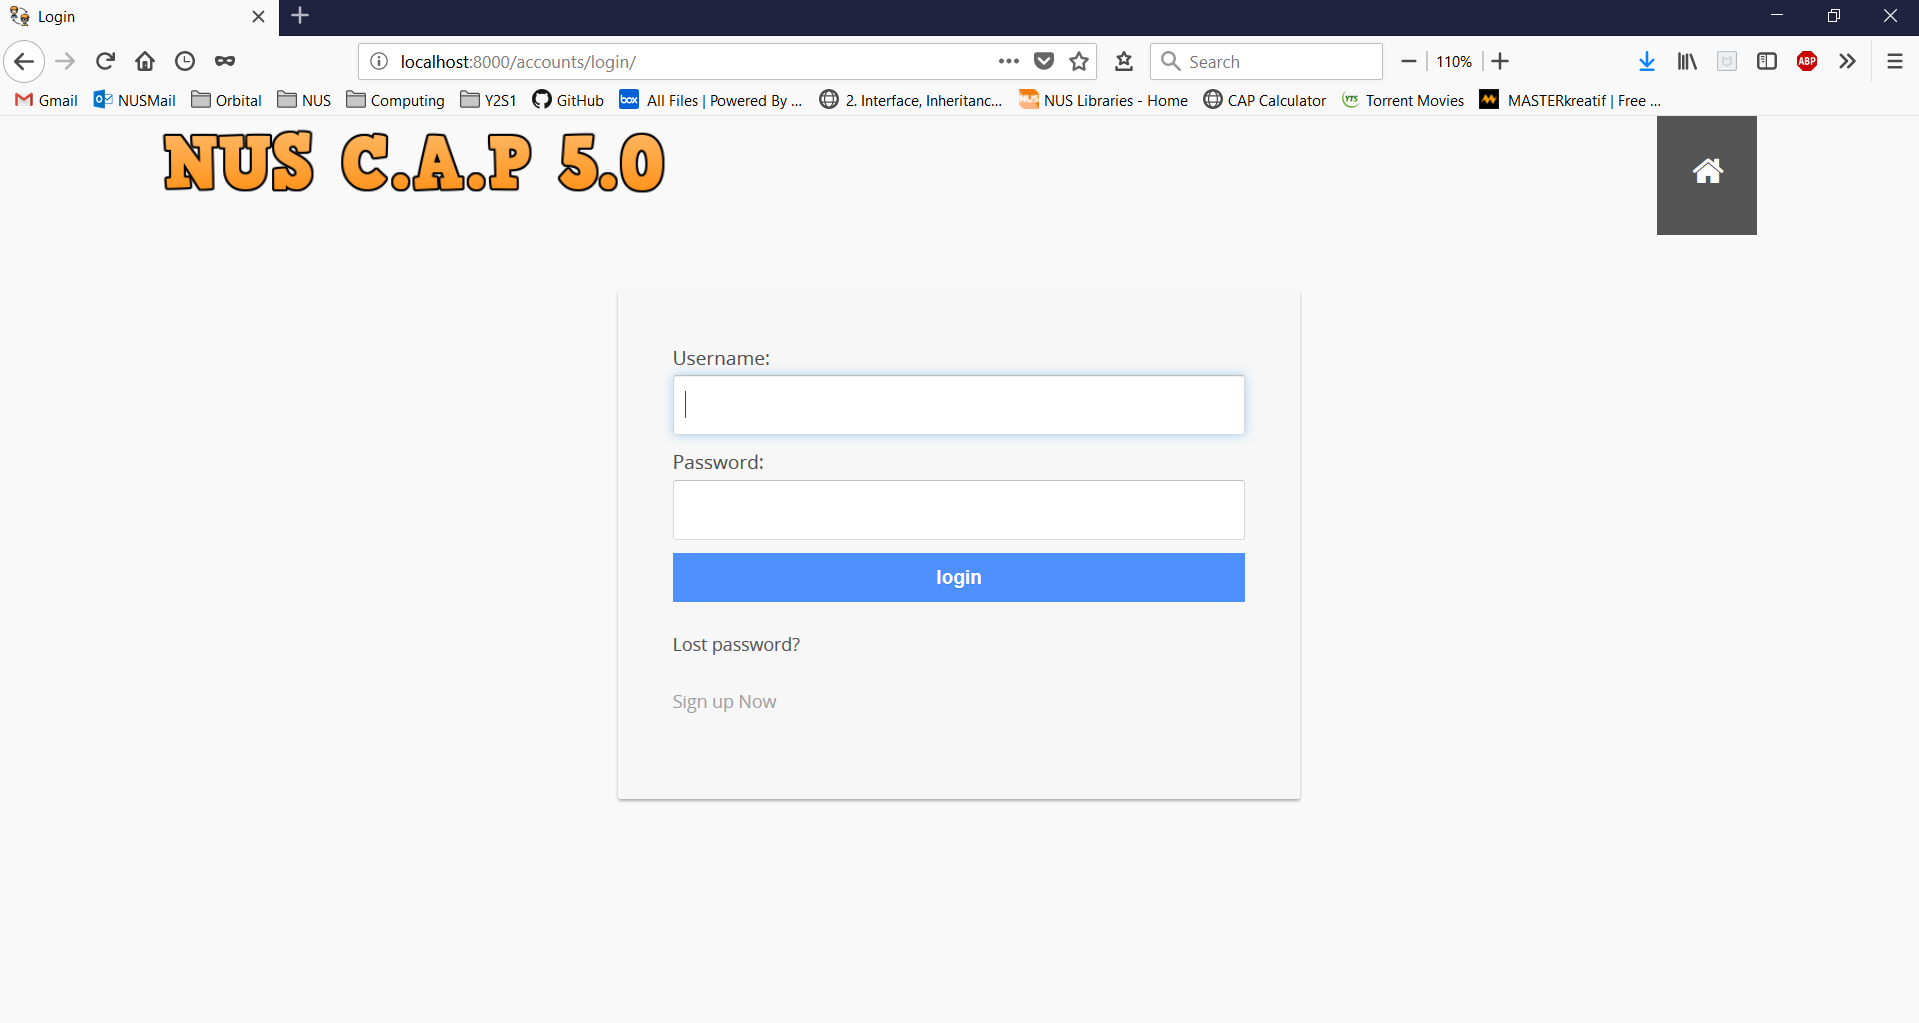
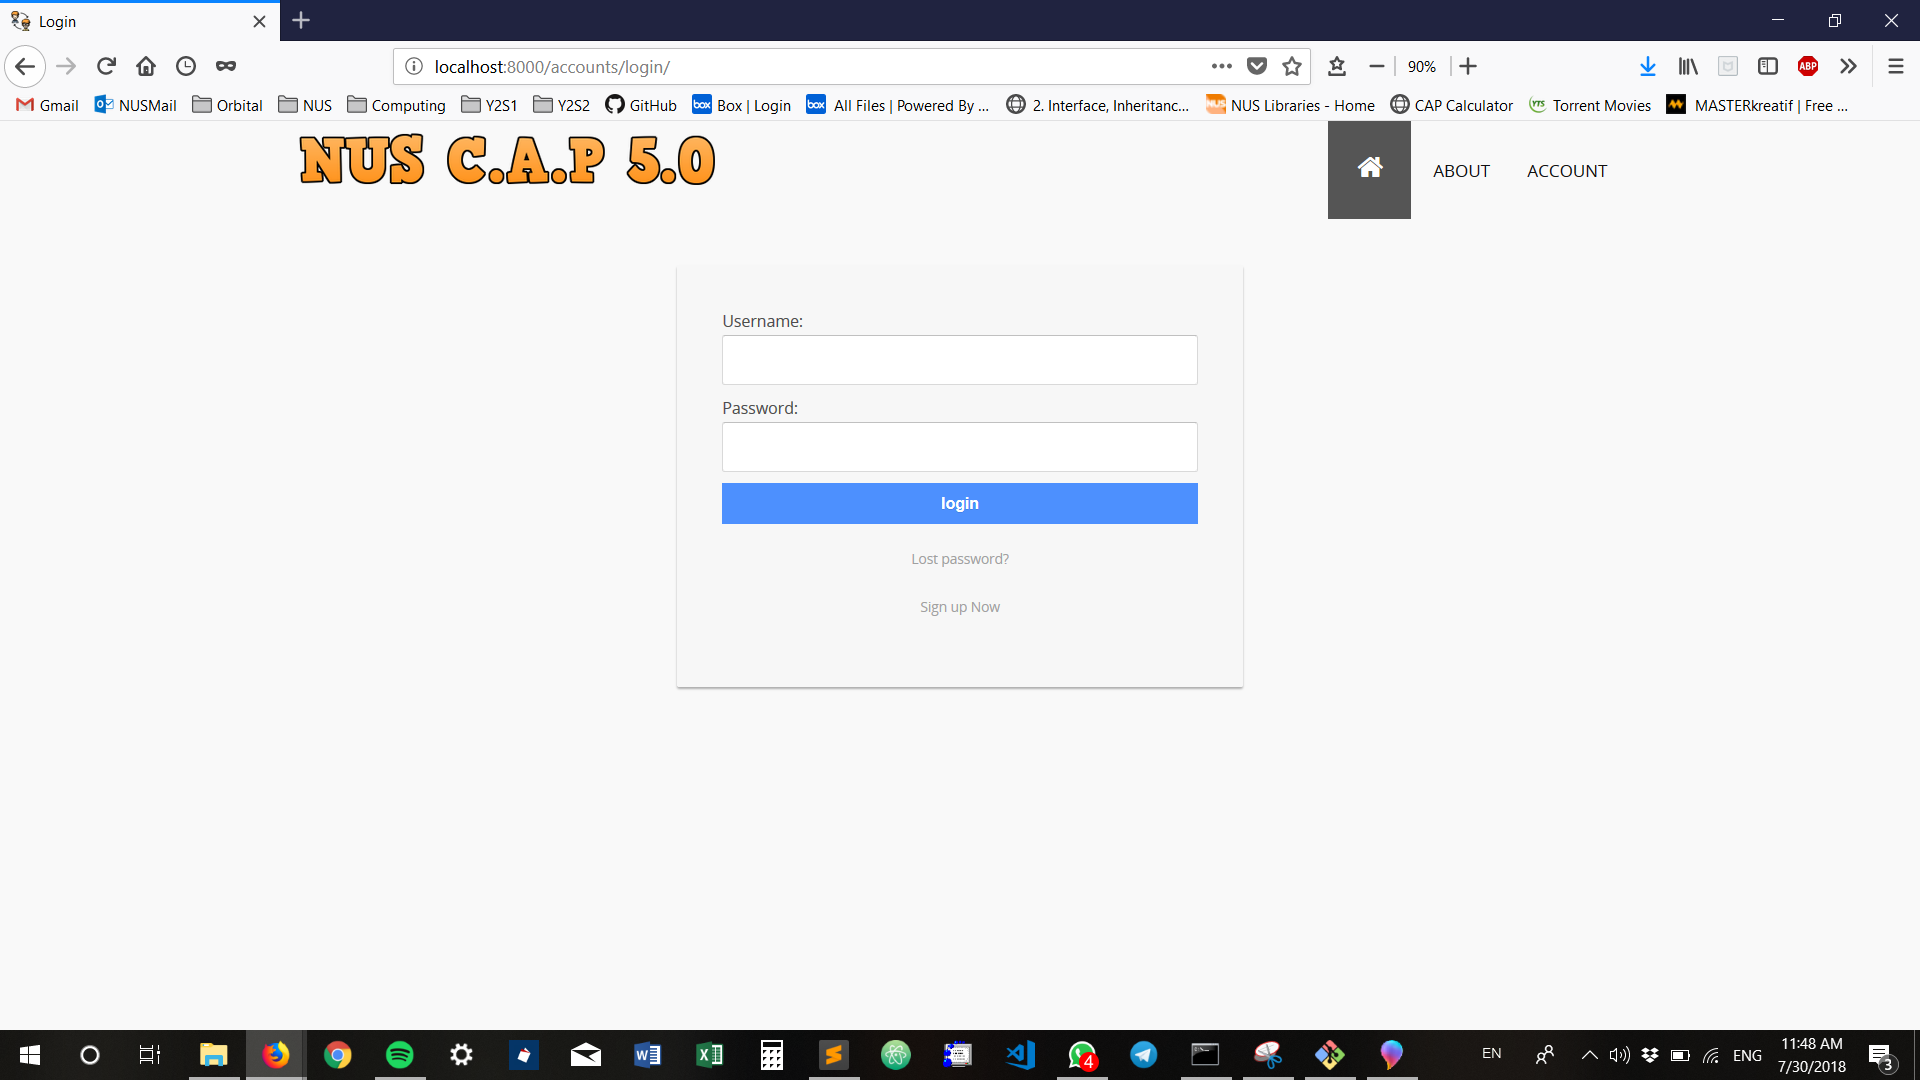
MilestoneIII

diff --git a/README.md b/README.md
@@ -12,7 +12,7 @@ Currently, NUS releases past year papers on NUSLib. However, answers for these p
 NUSCAP5 aims to provide a centralised platform for students of NUS to find answers for past year papers online and allow students to discuss their answers online. This will allow others to comment on the answers posted by users. 
 
 # Poster
-![Poster](MilestoneIIPoster.png)
+![Poster](MilestoneIIIPoster.jpg)
 
 # Features
 These are some of the features our web app will provide:
@@ -21,11 +21,13 @@ These are some of the features our web app will provide:
 
 2. **Search function** to search for PYP answers
 
-3. Grouping into respective **Faculties > Modules > Year of Paper**
+3. Grouping into respective **Faculties > Modules > Year, Semester of Paper**
 
 4. **Upvote/downvote system** to show the most accurate answers posted by users
 
 5. **Uploading photos/documents** to show answers
+
+6. **Comments section** to discuss answers posted by users
 
 # How we are different from other platforms
 1. **IVLE Forums**
@@ -84,46 +86,59 @@ We quickly changed our focus to reading up on HTML, CSS, JS for frontend program
 4. Adding your own module code and name
 5. Adding comments
 
+# **Feedback from peers**
+Please provide us with feedback on what further functions/utility you wish to see us develop in our web app, it'll mean alot to us! Thanks!
+
+### **Milestone 3** 
+
+AFter feedback from peers in Milestone II, we have improved on our website and these are the functionalities that we have included:
+
+## **Functionalities included in Milestone 3**
+1. User profile pages, editing of profile pages
+2. Deletion of files uploaded by users
+3. Auto update of modules (synced with NUSMODs)
+4. Refining UX/UI of login/signup
+5. Password reset/changing of password functionalities
+
 ## **Preview** 
-### Home Page
-![Home Page for Users not logged in](homepage.JPG)
+### Home Page (Logged out)
+![Home Page for Users not logged in](homepage_loggedout.png)
+
+### Home Page (Logged In)
+![Home Page for logged in Users](homepage_loggedin.png)
 
 ### Navigation Bar (Not logged in)
-![Navigation bar for users not logged in](account.jpg)
+![Navigation bar for users not logged in](navbar_loggedout.png)
 
 ### Navigation Bar (Logged In)
-![Navigation bar for users logged in](loggedin.png)
+![Navigation bar for users logged in](navbar_loggedin.png)
 
 ### Login page 
 ![Login Page](login.png)
 
 ### Registration page
-![Registration Page](register.png)
+![Registration Page](signup.png)
+
+### Password Reset 
+![Password Reset](password_reset.png)
+![Password Reset Done](password_reset_done.png)
 
 ### Faculties
-![Faculties](faculties.JPG)
+![Faculties](faculties.png)
+
+### Searching for Modules
+![Searching for Modules](searchbar.png)
+![Results](results.png)
 
 ### Modules
-![Modules](modules.png)
+![Modules](list_of_modules.png)
 
 ### Year 
 ![Year](year.png)
 
 ### Uploaded Answers
 ![Answers](answers.png)
+![Many Answers](many_answers.png)
 
-
-## **Functionalities to be included**
-As our web site is still in development, these are the functions we hope to include:
-1. User profile pages
-2. Social Media Login
-3. Deletion of files
-4. Include all Faculties and Modules (Auto update of modules)
-5. Refining basic functionalities such as upvote and downvote
-6. Refining UX/UI
-
-
-# **Feedback from peers**
-Please provide us with feedback on what further functions/utility you wish to see us develop in our web app, it'll mean alot to us! Thanks!
-
-### **Milestone 3** (To be continued... 30 July 2018)
+### Comments Section
+![Comments](comments.png)
